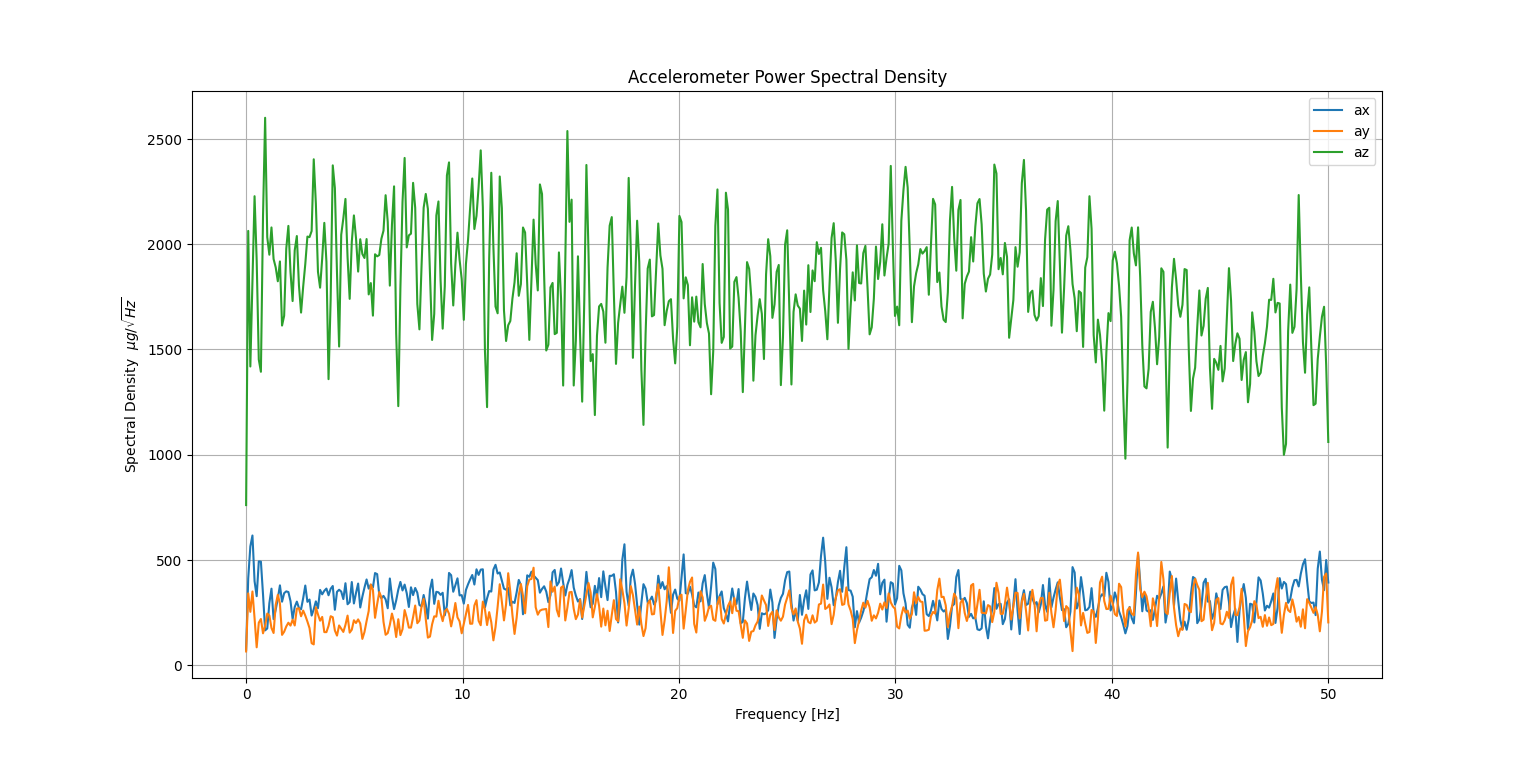
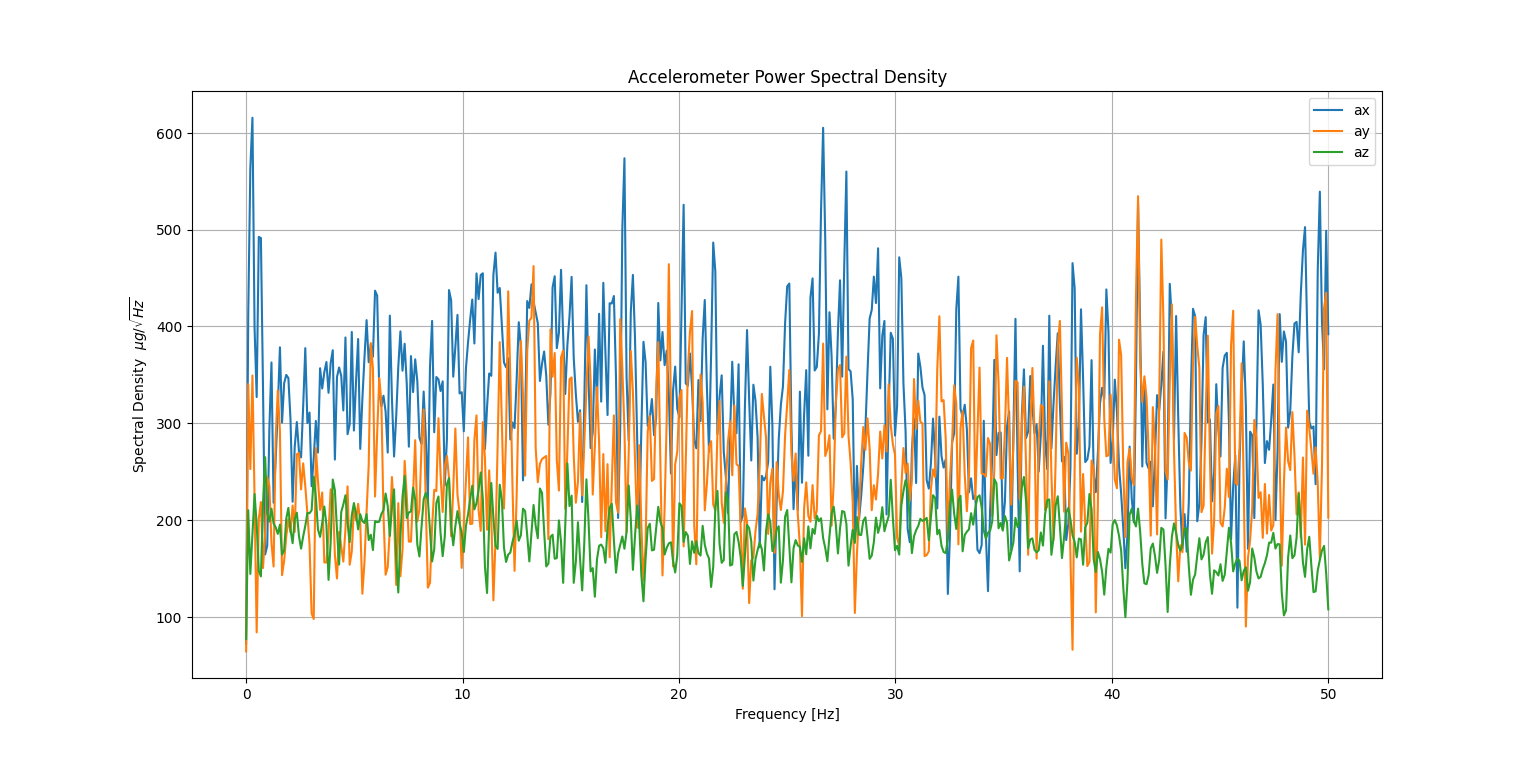
update psd

diff --git a/firmwarePioCube/data_analysis/accel_noise.py b/firmwarePioCube/data_analysis/accel_noise.py
@@ -86,7 +86,7 @@ freqaz, psdaz = signal.welch(az, FS, nperseg=1024, scaling='density')  # az
 # Convert to [ug / sqrt(Hz)]
 psdax = np.sqrt(psdax) * accel2ug
 psday = np.sqrt(psday) * accel2ug
-psdaz = np.sqrt(psdaz) * accel2ug
+psdaz = np.sqrt(psdaz) * accel2ug / 9.80665
 
 # psdgx = np.sqrt(psdgx)
 # psdgy = np.sqrt(psdgy)
